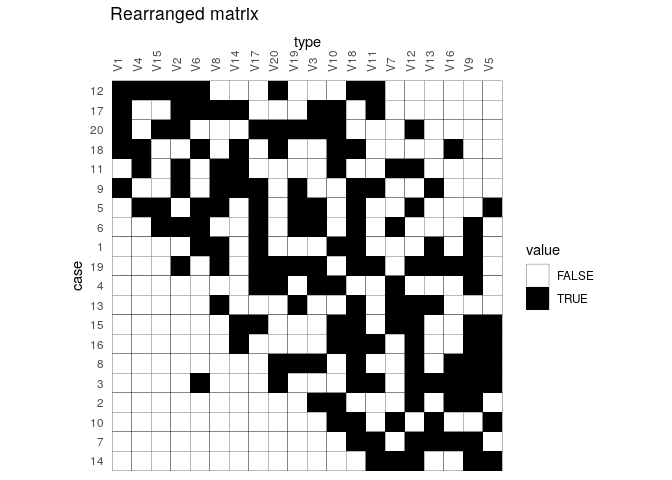
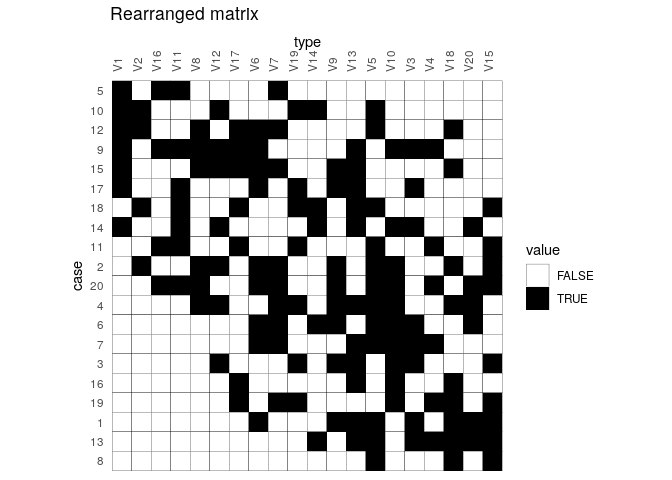
Fix typo

diff --git a/README.md b/README.md
@@ -145,19 +145,19 @@ incidence <- IncidenceMatrix(data = sample(0:1, 400, TRUE, c(0.6, 0.4)),
                              nrow = 20)
 
 # Get seriation order on rows and columns
-# reciprocal ranking method
+# Reciprocal ranking method
 (indices <- seriate(incidence, method = "ranking", margin = c(1, 2)))
 #> Permutation order for matrix seriation: 
-#>    Row order: 12 17 20 18 11 9 5 6 1 19 4 13 15 16 8 3 2 10 7 14 
-#>    Column order: 1 4 15 2 6 8 14 17 20 19 3 10 18 11 7 12 13 16 9 5 
+#>    Row order: 5 10 12 9 15 17 18 14 11 2 20 4 6 7 3 16 19 1 13 8 
+#>    Column order: 1 2 16 11 8 12 17 6 7 19 14 9 13 5 10 3 4 18 20 15 
 #>    Method: ranking
 ```
 
 ``` r
-# Permute matrix columns
+# Permute matrix rows and columns
 incidence2 <- permute(incidence, indices)
 
-# Plot Ford diagram of the rearranged matrix
+# Plot matrix
 library(ggplot2)
 plotMatrix(incidence) + 
   labs(title = "Original matrix") +
